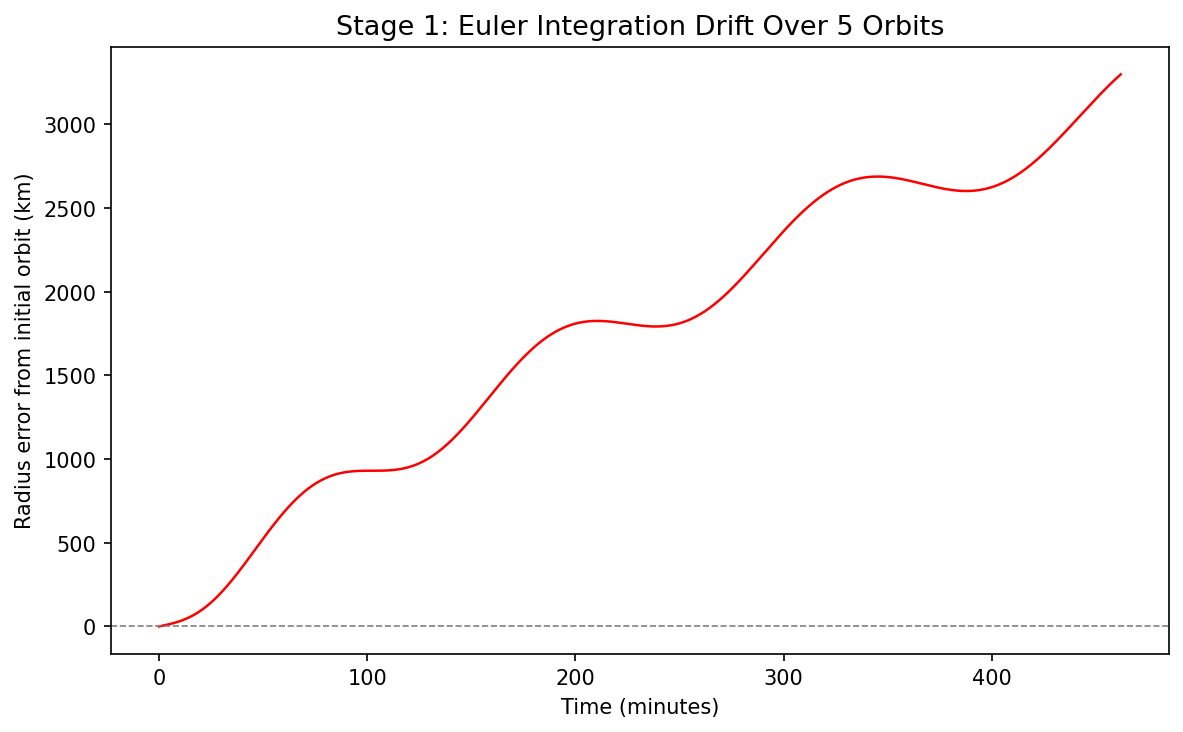
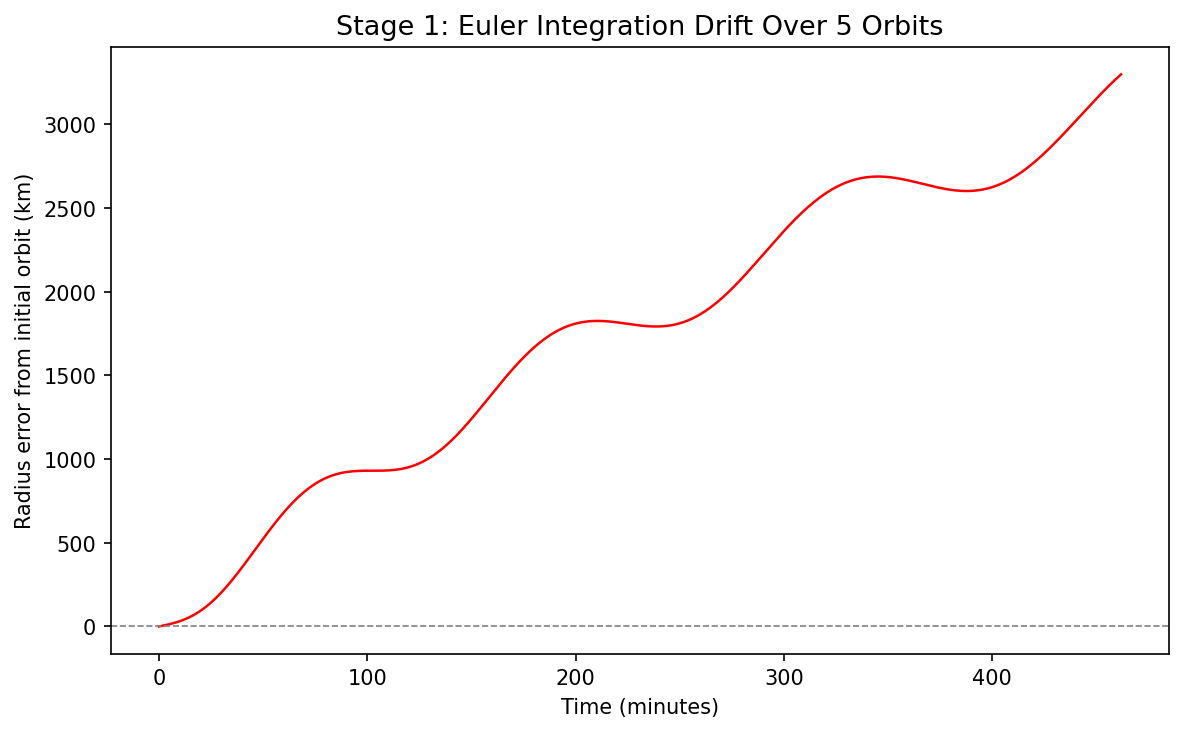
Stage 1: energy and angular momentum conservation tracking added

diff --git a/orbital_simulator.py b/orbital_simulator.py
@@ -70,6 +70,16 @@ def simulate_euler(r0, v0, dt, steps):
 
     return positions, velocities
 
+# Different version of simulate_euler() which takes a state vector whereas the original took separate r, v arrays.
+def euler_step(state, dt):
+    r = state[:2]
+    v = state[2:]
+    a = acceleration(r)
+
+    r_new = r + v * dt
+    v_new = v + a * dt
+    return np.concatenate([r_new, v_new])
+
 
 # ─────────────────────────────────────────
 # Specific Orbital Energy Calculation
@@ -158,19 +168,44 @@ def rk4step(state, dt):
     return state + (dt / 6) * (k1 + 2*k2 + 2*k3 + k4)
 
 # ─────────────────────────────────────────
+# Propagating Function
+# ─────────────────────────────────────────
+
+# Unified propagator — same initial state, same dt, only the step function changes.
+# This makes the Euler vs RK4 comparison as accurate as possible.
+
+def propagate(initial_state, dt, steps, method="rk4"):
+    step_func = rk4step if method=="rk4" else euler_step
+    states = np.zeros((steps, len(initial_state)))
+    s = initial_state.copy()
+
+    for i in range(steps):
+        states[i] = s
+        s = step_func(s, dt)
+    return states
+
+# ─────────────────────────────────────────
+# Energy and Angular Momentum Conservation Tracking
+# ─────────────────────────────────────────
+
+def specific_energy(r, v):
+    KE = 0.5 * np.dot(v, v)                 # Kinetic energy per unit mass: v²/2
+    PE = -mu_earth / np.linalg.norm(r)      # Potential energy per unit mass: -μ/r
+    return KE + PE                          # This value should remain constant in a correct simulation
+
+def angular_momentum(r, v):
+    return r[0]*v[1] - r[1]*v[0]            # This value should remain constant in a correct simulation
+
+# ─────────────────────────────────────────
 # Plotting the Orbit
 # ─────────────────────────────────────────
 
-def plot_results(positions, rk4_positions, dt, steps, altitude):
+def plot_results(dt, steps, altitude):
     # Handles all matplotlib logic for plotting orbit and drift.
     os.makedirs("images", exist_ok=True)
-    
-    # 1. Plot Forward Euler Orbit
-    x_coords = positions[:, 0]
-    y_coords = positions[:, 1]
 
     fig, ax = plt.subplots(figsize=(7, 7))
-    ax.plot(x_coords, y_coords, color="blue", lw=1.2, label="Orbit")
+    ax.plot(euler_x_coords, euler_y_coords, color="blue", lw=1.2, label="Orbit")
 
     earth = plt.Circle((0, 0), R_earth, color="dodgerblue", label="Earth")
     ax.add_patch(earth)
@@ -186,7 +221,7 @@ def plot_results(positions, rk4_positions, dt, steps, altitude):
 
     # 2. Plot Forward Euler Orbital Drift
     # Optimized radii magnitude calculation
-    radii = np.sqrt(positions[:, 0]**2 + positions[:, 1]**2)
+    radii = np.sqrt(euler_x_coords**2 + euler_y_coords**2)
     radius_error = radii - radii[0]
     time_array = np.arange(steps) * dt / 60
 
@@ -201,12 +236,11 @@ def plot_results(positions, rk4_positions, dt, steps, altitude):
     plt.close()
 
     # Plot RK4 Orbit
-    #print(positions[:,0])
-    x_coords = rk4_positions[:, 0]
-    y_coords = rk4_positions[:, 1]
+    rk4_x_coords = r_rk4[:, 0]
+    rk4_y_coords = r_rk4[:, 1]
 
     fig, ax = plt.subplots(figsize=(7, 7))
-    ax.plot(x_coords, y_coords, color="blue", lw=1.2, label="Orbit")
+    ax.plot(rk4_x_coords, rk4_y_coords, color="blue", lw=1.2, label="Orbit")
 
     # Earth — Radius 6,371,000m
     earth = plt.Circle((0,0), R_earth, color="dodgerblue", label="Earth")
@@ -221,10 +255,66 @@ def plot_results(positions, rk4_positions, dt, steps, altitude):
     plt.savefig("images/stage2_RK4_orbit.png", dpi=150, bbox_inches="tight")
     plt.close()
 
+    # Plotting Energy and Angular Momentum Conservation
+    # Calculating initial values
+    E0 = specific_energy(initial_state[:2], initial_state[2:])
+    h0 = angular_momentum(initial_state[:2], initial_state[2:])
+
+    # Relative errors in energy and angular momentum
+    energy_error_rk4 = np.array([(specific_energy(r, v) - E0) / abs(E0) for r, v in zip(r_rk4, v_rk4)])
+    energy_error_eul = np.array([(specific_energy(r, v) - E0) / abs(E0) for r, v in zip(r_euler, v_euler)])
+
+    angular_momentum_error_rk4 = np.array([(angular_momentum(r, v) - h0) / abs(h0) for r, v in zip(r_rk4, v_rk4)])
+    angular_momentum_error_eul = np.array([(angular_momentum(r, v) - h0) / abs(h0) for r, v in zip(r_euler, v_euler)])
+
+    time_array = np.arange(steps) * dt / 3600
+
+    fig, (ax1, ax2) = plt.subplots(2, 1, figsize=(10, 8), sharex=True)
+
+    # Panel 1: Specific Energy Relative Error
+    ax1.plot(time_array, energy_error_eul, color='crimson', lw=1.5, label='Euler (1st Order)')
+    ax1.plot(time_array, energy_error_rk4, color='royalblue', lw=1.5, label='RK4 (4th Order)')
+    ax1.set_title('Stage 2: Relative Specific Mechanical Energy Error', fontsize=14)
+    ax1.set_ylabel('(E - E0) / |E0|', fontsize=12)
+    ax1.axhline(0, color='black', ls='--', lw=0.8)
+    ax1.legend(fontsize=12)
+
+    # Panel 2: Angular Momentum Relative Error
+    ax2.plot(time_array, angular_momentum_error_eul, color='crimson', lw=1.5, label='Euler')
+    ax2.plot(time_array, angular_momentum_error_rk4, color='royalblue', lw=1.5, label='RK4')
+    ax2.set_title('Stage 2: Relative Angular Momentum Error', fontsize=14)
+    ax2.set_xlabel('Time (hours)', fontsize=12)
+    ax2.set_ylabel('(h - h0) / |h0|', fontsize=12)
+    ax2.axhline(0, color='black', ls='--', lw=0.8)
+    ax2.legend(fontsize=12)
+
+    plt.tight_layout()
+    plt.savefig('images/stage2_energy_comparison.png', dpi=150, bbox_inches='tight')
+    plt.close()
+
+    # Orbit Comparison Plot (RK4 vs Euler)
+    fig, ax = plt.subplots(figsize=(8, 8))
+
+    ax.plot(euler_x_coords, euler_y_coords, color='crimson',   lw=0.8, alpha=0.7, label='Euler')
+    ax.plot(rk4_x_coords, rk4_y_coords, color='royalblue', lw=1.2, label='RK4')
+
+    earth = plt.Circle((0, 0), R_earth, color='dodgerblue', label='Earth')
+    ax.add_patch(earth)
+
+    ax.set_aspect('equal')
+    ax.set_title('Stage 2: Euler vs RK4 — 5 Orbital Periods', fontsize=13)
+    ax.set_xlabel('x position (m)', fontsize=10)
+    ax.set_ylabel('y position (m)', fontsize=10)
+    ax.legend()
+    plt.tight_layout()
+    plt.savefig('images/stage2_orbit_comparison.png', dpi=150, bbox_inches='tight')
+    plt.close()
+
 
 if __name__ == "__main__":
     # 1. Initialization
     r0, v0 = calculate_initial_conditions(ALTITUDE)
+    initial_state = np.concatenate([r0,v0])
     
     # Verify gravity at initial position
     a_test = acceleration(r0)
@@ -266,20 +356,18 @@ if __name__ == "__main__":
         print("  Could not measure period (not enough complete orbits).")
     print()
 
-    # 5. RK4 Simulation
-    initial_state = np.concatenate([r0, v0])
+    # Running both propagators
+    states_rk4 = propagate(initial_state, dt, steps, method="rk4")
+    states_euler = propagate(initial_state, dt, steps, method="euler")
+
+    # Extracting positions and velocities from both methods
+    r_rk4, v_rk4 = states_rk4[:, :2], states_rk4[:, 2:]
+    r_euler, v_euler = states_euler[:, :2], states_euler[:, 2:]
     
-    rk4_positions = np.zeros((steps, 2))
-    s = initial_state.copy()
-
-    for i in range(steps):
-
-        # Records the current x,y positions
-        rk4_positions[i] = s[:2]
-
-        # Updates the state vector using RK4
-        s = rk4step(s, dt)
+    # Plot Forward Euler Orbit
+    euler_x_coords = r_euler[:, 0]
+    euler_y_coords = r_euler[:, 1]
     
-    # 6. Visualizations
-    plot_results(positions, rk4_positions, dt, steps, ALTITUDE)
+    # 5. Visualizations
+    plot_results(dt, steps, ALTITUDE)
     print("Plots saved to images/ directory.")

diff --git a/README.md b/README.md
@@ -6,7 +6,7 @@ Validated against analytical results: gravitational acceleration at altitude and
 
 *Built to be an independent and self-researched aerospace lab.*
 
-![2D orbit of a 400 km satellite around Earth using Euler](./images/stage1_orbit.png)
+![Forward Euler vs RK4 Comparison Orbit Plot](./images/stage2_orbit_comparison.png)
 
 **Author: Yashaswi Burugupalli**
 